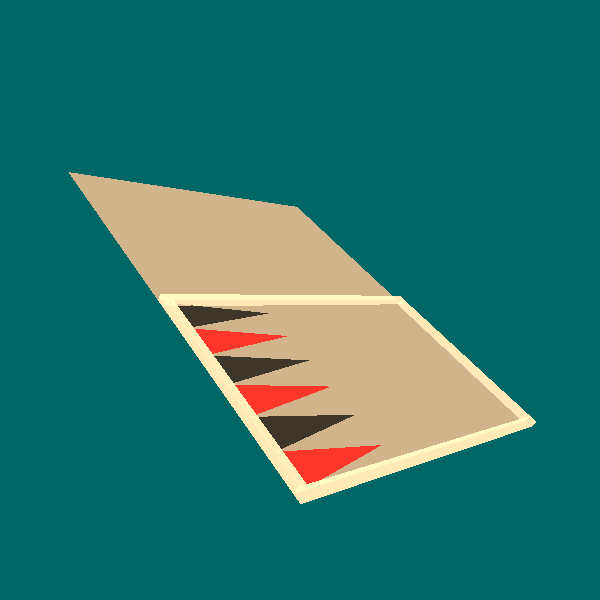
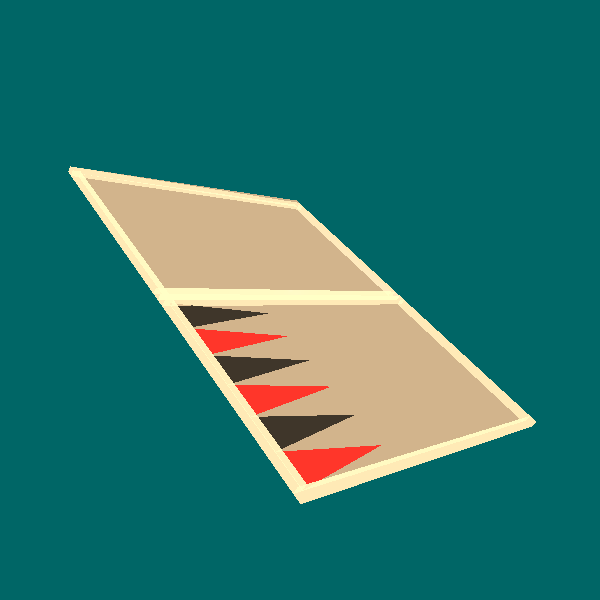
finishing adages of bord

Changed region(s): [[0.12, 0.27, 0.66, 0.51]]

diff --git a/unitTests/renderer/Backgammon.java b/unitTests/renderer/Backgammon.java
@@ -84,6 +84,30 @@ public class Backgammon {
         Geometry U_border_4_border_right = borders(-17.5, 500, 0, -312, 500, 0, -312, 500, 10, -17.5, 500, 10);
         Geometry U_border_4_border_left = borders(-17.5, 487.5, 0, -312, 487.5, 0, -312, 487.5, 10, -17.5, 487.5, 10);
 
+        Geometry ML_border_5_buttom = borders(-325, 0, 0, -337.5, 0, 0, -337.5, 500, 0, -325, 500, 0);
+        Geometry ML_border_5_border_top = borders(-325, 0, 10, -337.5, 0, 10, -337.5, 500, 10, -325, 500, 10);
+        Geometry ML_border_5_border_right = borders(-325, 0, 0, -325, 0, 10, -325, 500, 10, -325, 500, 0);
+        Geometry ML_border_5_border_left = borders(-337.5, 0, 0, -337.5, 0, 10, -337.5, 500, 10, -337.5, 500, 0);
+        Geometry ML_border_5_border_down = borders(-325, 0, 0, -337.5, 0, 0, -337.5, 0, 10, -325, 0, 10);
+        Geometry ML_border_5_border_up = borders(-325, 500, 0, -337.5, 500, 0, -337.5, 500, 10, -325, 500, 10);
+
+        Geometry LD_border_2_buttom = borders(-325, 0, 0, -642.5, 0, 0, -642.5, 12.5, 0, -325, 12.5, 0);
+        Geometry LD_border_2_border_top = borders(-325, 0, 10, -642.5, 0, 10, -642.5, 12.5, 10, -325, 12.5, 10);
+        Geometry LD_border_2_border_right = borders(-325, 12.5, 0, -642.5, 12.5, 0, -642.5, 12.5, 10, -325, 12.5, 10);
+        Geometry LD_border_2_border_left = borders(-325, 0, 0, -642.5, 0, 0, -642.5, 0, 10, -325, 0, 10);
+
+        Geometry LL_border_5_buttom = borders(-642.5, 0, 0, -655, 0, 0, -665, 500, 0, -642.5, 500, 0);
+        Geometry LL_border_5_border_top = borders(-642.5, 0, 10, -655, 0, 10, -665, 500, 10, -642.5, 500, 10);
+        Geometry LL_border_5_border_right = borders(-642.5, 0, 0, -642.5, 0, 10, -642.5, 500, 10, -642.5, 500, 0);
+        Geometry LL_border_5_border_left = borders(-655, 0, 0, -655, 0, 10, -655, 500, 10, -655, 500, 0);
+        Geometry LL_border_5_border_down = borders(-642.5, 0, 0, -655, 0, 0, -655, 0, 10, -642.5, 0, 10);
+        Geometry LL_border_5_border_up = borders(-642.5, 500, 0, -655, 500, 0, -655, 500, 10, -642.5, 500, 10);
+
+        Geometry LU_border_4_buttom = borders(-337.5, 487.5, 0, -642.5, 487.5, 0, -642.5, 500, 0, -337.5, 500, 0);
+        Geometry LU_border_4_border_top = borders(-337.5, 487.5, 10, -642.5, 487.5, 10, -642.5, 500, 10, -337.5, 500, 10);
+        Geometry LU_border_4_border_right = borders(-337.5, 500, 0, -642.5, 500, 0, -642.5, 500, 10, -337.5, 500, 10);
+        Geometry LU_border_4_border_left = borders(-337.5, 487.5, 0, -642.5, 487.5, 0, -642.5, 487.5, 10, -337.5, 487.5, 10);
+
         Scene scene = new Scene.SceneBuilder("game")
                 .setGeometries(new Geometries(
                         bord,
@@ -112,7 +136,27 @@ public class Backgammon {
                         U_border_4_buttom,
                         U_border_4_border_top,
                         U_border_4_border_right,
-                        U_border_4_border_left
+                        U_border_4_border_left,
+                        ML_border_5_buttom,
+                        ML_border_5_border_top,
+                        ML_border_5_border_right,
+                        ML_border_5_border_left,
+                        ML_border_5_border_down,
+                        ML_border_5_border_up,
+                        LD_border_2_buttom,
+                        LD_border_2_border_top,
+                        LD_border_2_border_right,
+                        LD_border_2_border_left,
+                        LL_border_5_buttom,
+                        LL_border_5_border_top,
+                        LL_border_5_border_right,
+                        LL_border_5_border_left,
+                        LL_border_5_border_down,
+                        LL_border_5_border_up,
+                        LU_border_4_buttom,
+                        LU_border_4_border_top,
+                        LU_border_4_border_right,
+                        LU_border_4_border_left
                         ))
                 .setBackground(new Color(255, 255, 255))
                 .setLights(lights)
